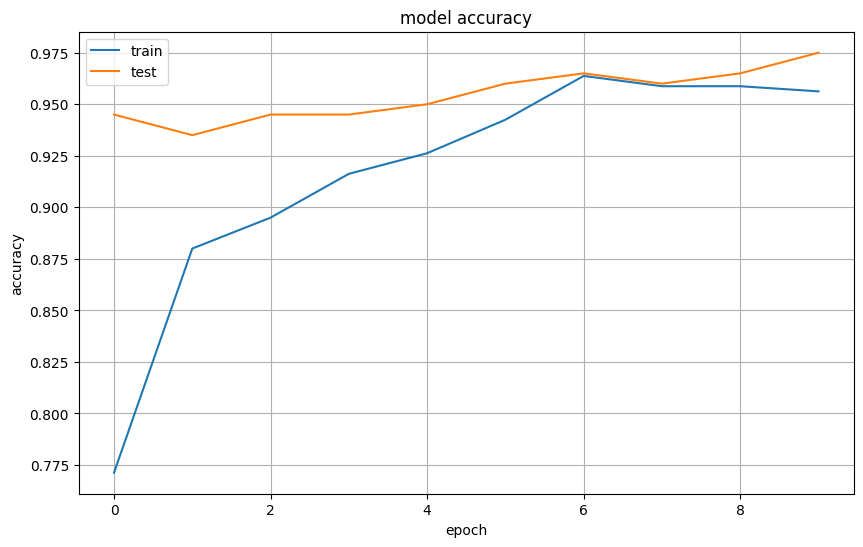
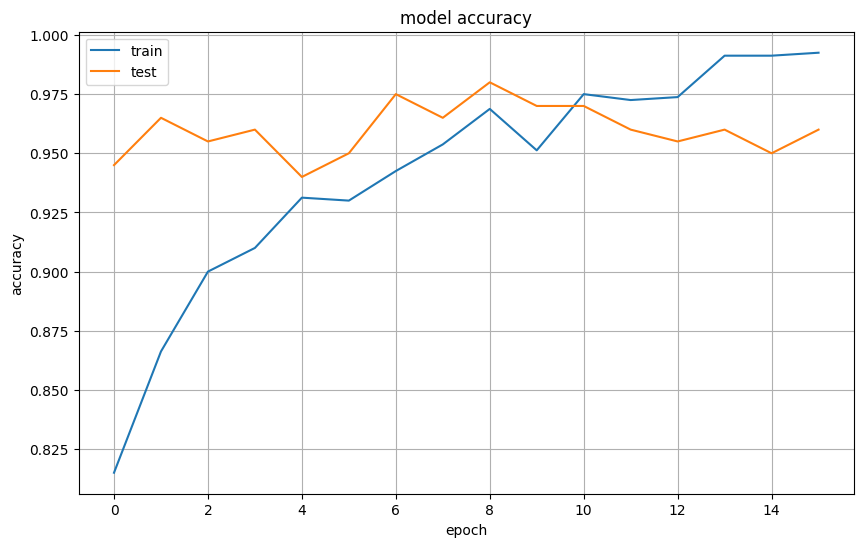
Add files via upload

diff --git a/dataGenerator.py b/dataGenerator.py
@@ -91,10 +91,10 @@ class DataGenerator(Sequence):
       
     def normalize(self, data):
         data = (data / 255.0).astype(np.float32)
-        mean = np.mean(data)
-        std = np.std(data)
-        #mean = [0.485, 0.456, 0.406]
-        #std = [0.229, 0.224, 0.225]
+        #mean = np.mean(data)
+        #std = np.std(data)
+        mean = [0.485, 0.456, 0.406]
+        std = [0.229, 0.224, 0.225]
         return (data-mean) / std
     
     def random_flip(self, video, prob):

diff --git a/sepConvLstmNet.py b/sepConvLstmNet.py
@@ -33,13 +33,13 @@ def getModel(size=224, seq_len=20 , cnn_weight=None, lstm_conf=None ):
     #x = GlobalAveragePooling2D()(x)
 
     x = Dense(1000,activation = 'relu')(x)
-    x = Dropout(0.0)(x)
+    x = Dropout(0.1)(x)
     
     x = Dense(256,activation='relu')(x)
-    x = Dropout(0.0)(x)
+    x = Dropout(0.1)(x)
 
     x = Dense(16,activation='relu')(x)
-    x = Dropout(0.0)(x)
+    x = Dropout(0.1)(x)
 
     activation = 'sigmoid'
     
